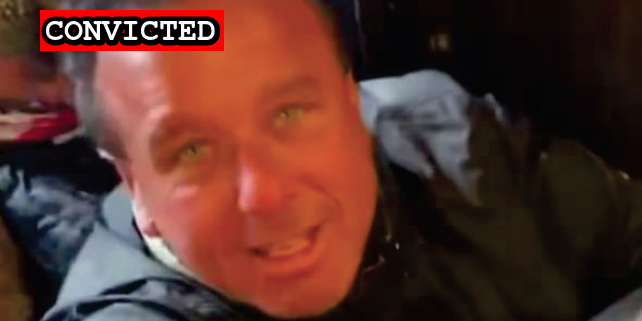
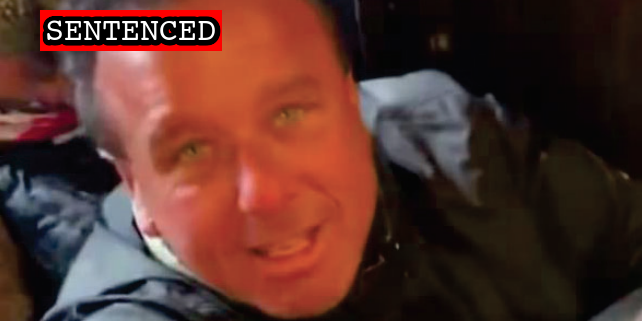
Simon sentencing

Changed region(s): [[0.0623, 0.0312, 0.3738, 0.1558]]

diff --git a/docs/_suspects/mark-simon.md b/docs/_suspects/mark-simon.md
@@ -4,12 +4,12 @@ lastName: Simon
 hashtag: MarkSimon
 aka:
 residence: California
-status: Convicted
+status: Sentenced
 date: 2021-01-28
 charged: 2021-01-28
 indicted:
 convicted: 2021-08-19
-sentenced:
+sentenced: 2021-12-07
 dismissed:
 deceased:
 plea_hearing: 2021-08-19
@@ -25,7 +25,7 @@ courtroom:
 courthouse:
 raid:
 perpwalk:
-quote: 'In the Capitol baby, yeah!'
+quote: "In the Capitol baby, yeah!"
 title: Mark Simon charged on January 28th, 2021
 description: Click for latest case details. Suspects innocent until proven guilty.
 author: seditiontrack
@@ -34,12 +34,15 @@ published: true
 caseNumber: 1:21-cr-67
 videos:
 charges:
-- code: 18 USC § 5104(e)(2)(G)
-  title: Parading, Demonstrating or Picketing in a Capitol Building
-  url: https://www.law.cornell.edu/uscode/text/40/5104
-  felony: false
+  - code: 18 USC § 5104(e)(2)(G)
+    title: Parading, Demonstrating or Picketing in a Capitol Building
+    url: https://www.law.cornell.edu/uscode/text/40/5104
+    felony: false
 sentence:
+  - 35 days in prison
+  - $500 restitution
 ---
+
 - [News Report](https://www.ocregister.com/2021/01/28/fbi-arrests-huntington-beach-man-for-suspected-involvement-in-u-s-capitol-siege/)
 - [Complaint](https://www.justice.gov/opa/page/file/1361286/download)
 - [Statement of Facts](https://www.justice.gov/usao-dc/case-multi-defendant/file/1428196/download)
